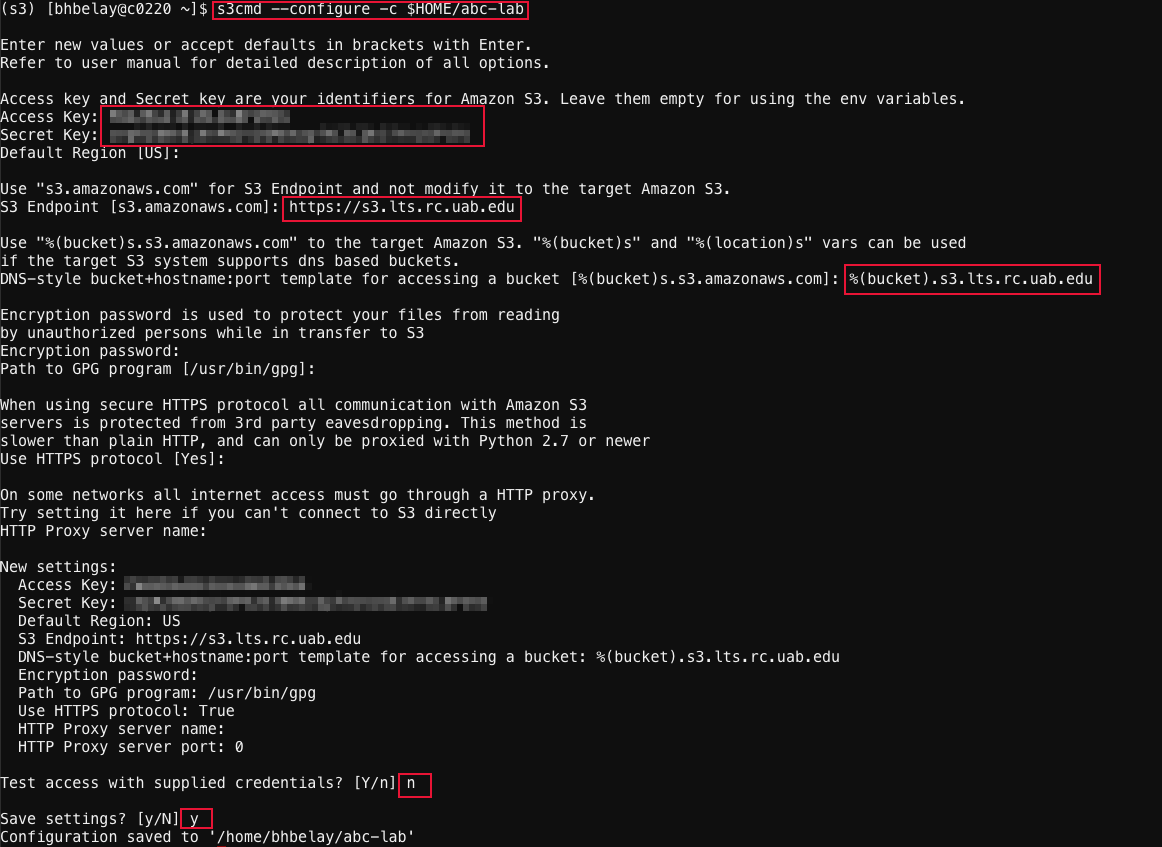
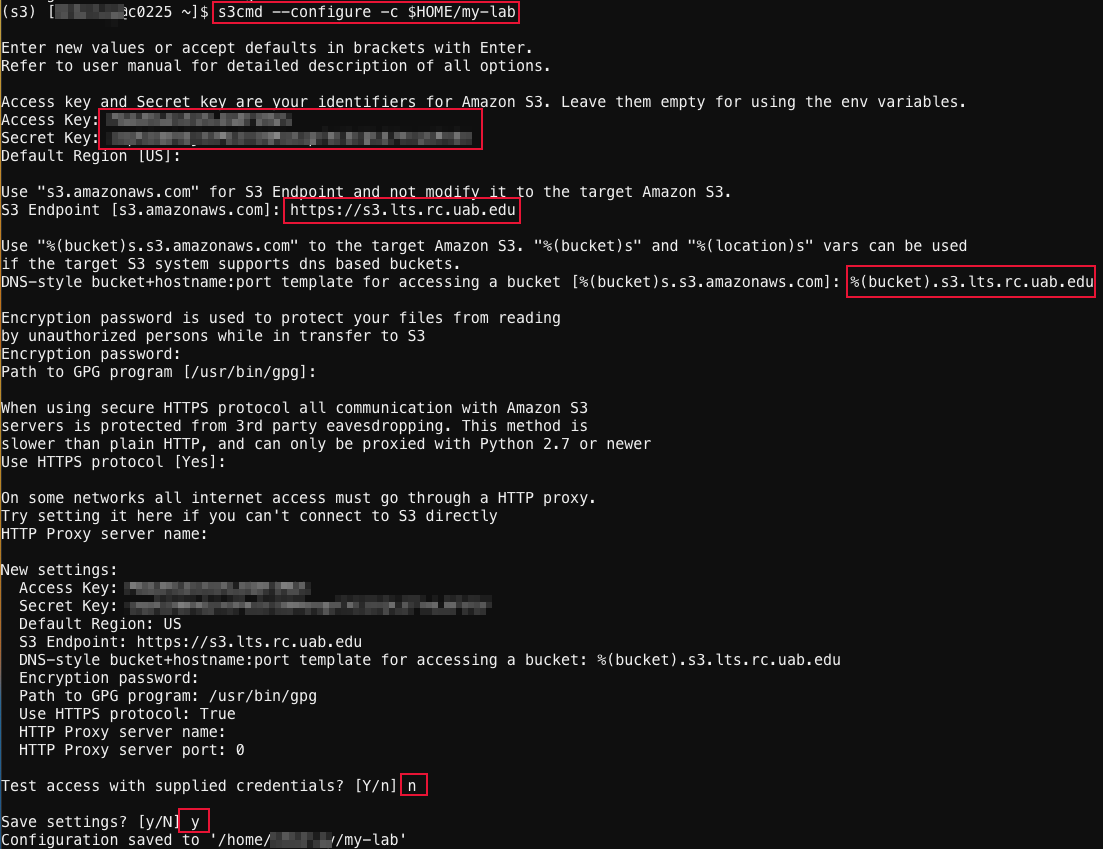
add alt text and address comments

Changed region(s): [[0.0, 0.0, 1.0, 1.0]]

diff --git a/docs/data_management/lts/tutorial/shared_lts_tutorial.md b/docs/data_management/lts/tutorial/shared_lts_tutorial.md
@@ -17,28 +17,32 @@ Once you have `s3cmd` installed and your environment activated as done for in [o
 
 `s3cmd --configure -c $HOME/<lts-profile-name>`
 
-In the same way, you can configure multiple LTS profiles if you own or manage more than one LTS allocation. Just use the corresponding access and secret keys, and replace `<lts-profile-name>` with an appropriate name for each profile. During configuration, you will be prompted to enter additional details, which will appear on screen as show below.
+In the same way, you can configure multiple LTS profiles if you own or manage more than one LTS allocation. Just use the corresponding access and secret keys, and replace `<lts-profile-name>` with an appropriate name for each profile.
+
+To start configuration, for example for the `my-lab` profile, run the command `s3cmd --configure -c $HOME/my-lab` in your terminal. During the configuration process, you will be prompted to enter various details, such as the Access Key, Secret Key, S3 Endpoint, and DNS-style bucket template.
+
+The screenshot below shows the full terminal output of `s3cmd --configure -c $HOME/my-lab` using the `my-lab` profile as an example. When prompted, enter the Access Key and Secret Key provided by your lab. Use `https://s3.lts.rc.uab.edu` as the S3 endpoint. For the DNS-style bucket template, enter `%(bucket).s3.lts.rc.uab.edu`. Leave the remaining fields at their default values or blank. When asked to test the credentials, type `n` for `no`. Then, type `y` to save your configuration. For more details, please refer our [generic s3cmd configuration](../interfaces.md#configuring-s3cmd) guide.
 
 ![image-shared-s3cmd](../images/shared-lts-config.png)
 
-Once the configuration is complete, `s3cmd` will generate a file in your home directory `$HOME` using the profile name you provided. For example, if you name your shared LTS profile `abc-lab`, the configuration file will be saved as a$ `HOME/abc-lab`. This will be in addition to the default `.s3cfg` file that was previously configured for your individual LTS, as shown below.
+Once the configuration is complete, `s3cmd` will generate a file in your home directory `$HOME` using the profile name you provided. For example, if you name your shared LTS profile `my-lab`, the configuration file will be saved as `$HOME/my-lab`. This will be in addition to the default `.s3cfg` file that was previously configured for your individual LTS, as shown below. The screenshot displays a window listing files in the user's home directory. Among the listed files, `.s3cfg` appears alongside other dotfiles, and `my-lab` appears as a separate, non-hidden file. These entries confirm the presence of both configuration files created by `s3cmd`. To locate your home directory on Cheaha and view  both the `.s3cfg`  and `my-lab`files, follow the instructions on our [Navigating Open OnDemand](../../../cheaha/open_ondemand/ood_layout.md#navigating-open-ondemand) page. Make sure to enable the "Show Dotfiles" option in the top-right corner to to make hidden files visible.
 
-![config-shared-lts-file](../images/abc-lab.png)
+![config-shared-lts-file](../images/my-lab.png)
 
 ## Switching between Individual and Shared LTS allocation Profiles
 
- If you own or manage more than one LTS allocations, such as individual and shared LTS allocations, you will need to switch between them to manage your buckets effectively.
+If you own or manage more than one LTS allocation, such as individual and shared LTS allocations, you will need to switch between them to manage your buckets effectively.
 
- In this section, we focus on the two configurations: [individual LTS configuration](./individual_lts_tutorial.md#configuring-s3cmd-for-lts-buckets) and [shared LTS configuration](#configuring-s3cmd-for-shared-lts-buckets). The individual profile uses the default `.s3cfg` file, so you can run `s3cmd` commands without specifying the `-c` option. Refer our  individual LTS tutorials on [creating](./individual_lts_tutorial.md#creating-buckets) and [managing](./individual_lts_tutorial.md#managing-buckets) buckets for examples.
+In this section, we focus on the two configurations: [individual LTS](./individual_lts_tutorial.md#configuring-s3cmd-for-lts-buckets) and [shared LTS](#configuring-s3cmd-for-shared-lts-buckets). The individual profile uses the default `.s3cfg` file, so you can run `s3cmd` commands without specifying the `-c` option. Refer our  individual LTS tutorials on [creating](./individual_lts_tutorial.md#creating-buckets) and [managing](./individual_lts_tutorial.md#managing-buckets) buckets for examples.
 
- For the shared profile ( `abc-lab`), you will need to explicitly pass the configuration file using the `-c` option followed by the profile configuration name with your usual `s3cmd` commands.
+For the shared profile ( `my-lab`), you will need to explicitly pass the configuration file using the `-c` option followed by the profile configuration name with your usual `s3cmd` commands.
 
 Here are examples for creating and listing buckets, and apply bucket policies:
 
-- To **creating buckets** in your shared LTS, use the command: `s3cmd -c abc-lab mb s3://your-bucket-name`.
-- To **list all buckets** you own with your shared LTS, use command: `s3cmd -c abc-lab ls`.
-- To **apply a bucket policy** (e.g., write access from a policy file `my-policy.json`), use the command: `s3cmd -c abc-lab setpolicy /path/to/my-policy.json s3://your-bucket-name`.
+- To **create buckets** in your shared LTS, use the command: `s3cmd -c my-lab mb s3://your-bucket-name`; note that `mb` is short for "make bucket".
+- To **list all buckets** you own with your shared LTS, use command: `s3cmd -c my-lab ls`. Please that this command will list only the buckets you own. For buckets you have access to but do not own, you will need to remember the bucket names as they  will not appear in this list.
+- To **apply a bucket policy** (e.g., write access from a policy file `my-policy.json`), use the command: `s3cmd -c my-lab setpolicy /path/to/my-policy.json s3://your-bucket-name`.
 
-Follow this same pattern for all other [`s3cmd` commands previously used to manage your individual LTS buckets](./individual_lts_tutorial.md#managing-buckets), just add the `-c` option followed by the shared LTS profile configuration name (`abc-lab` in this example) right after `s3cmd`.
+To manage your shared LTS buckets, repeat what you did with your [individual buckets](./individual_lts_tutorial.md#managing-buckets), and add the `-c my-lab` option.
 
 If you have any questions about configuring LTS, switching between LTS allocations, or managing bucket access across multiple LTS profiles, please [Contact Us](../../../index.md#how-to-contact-us).
